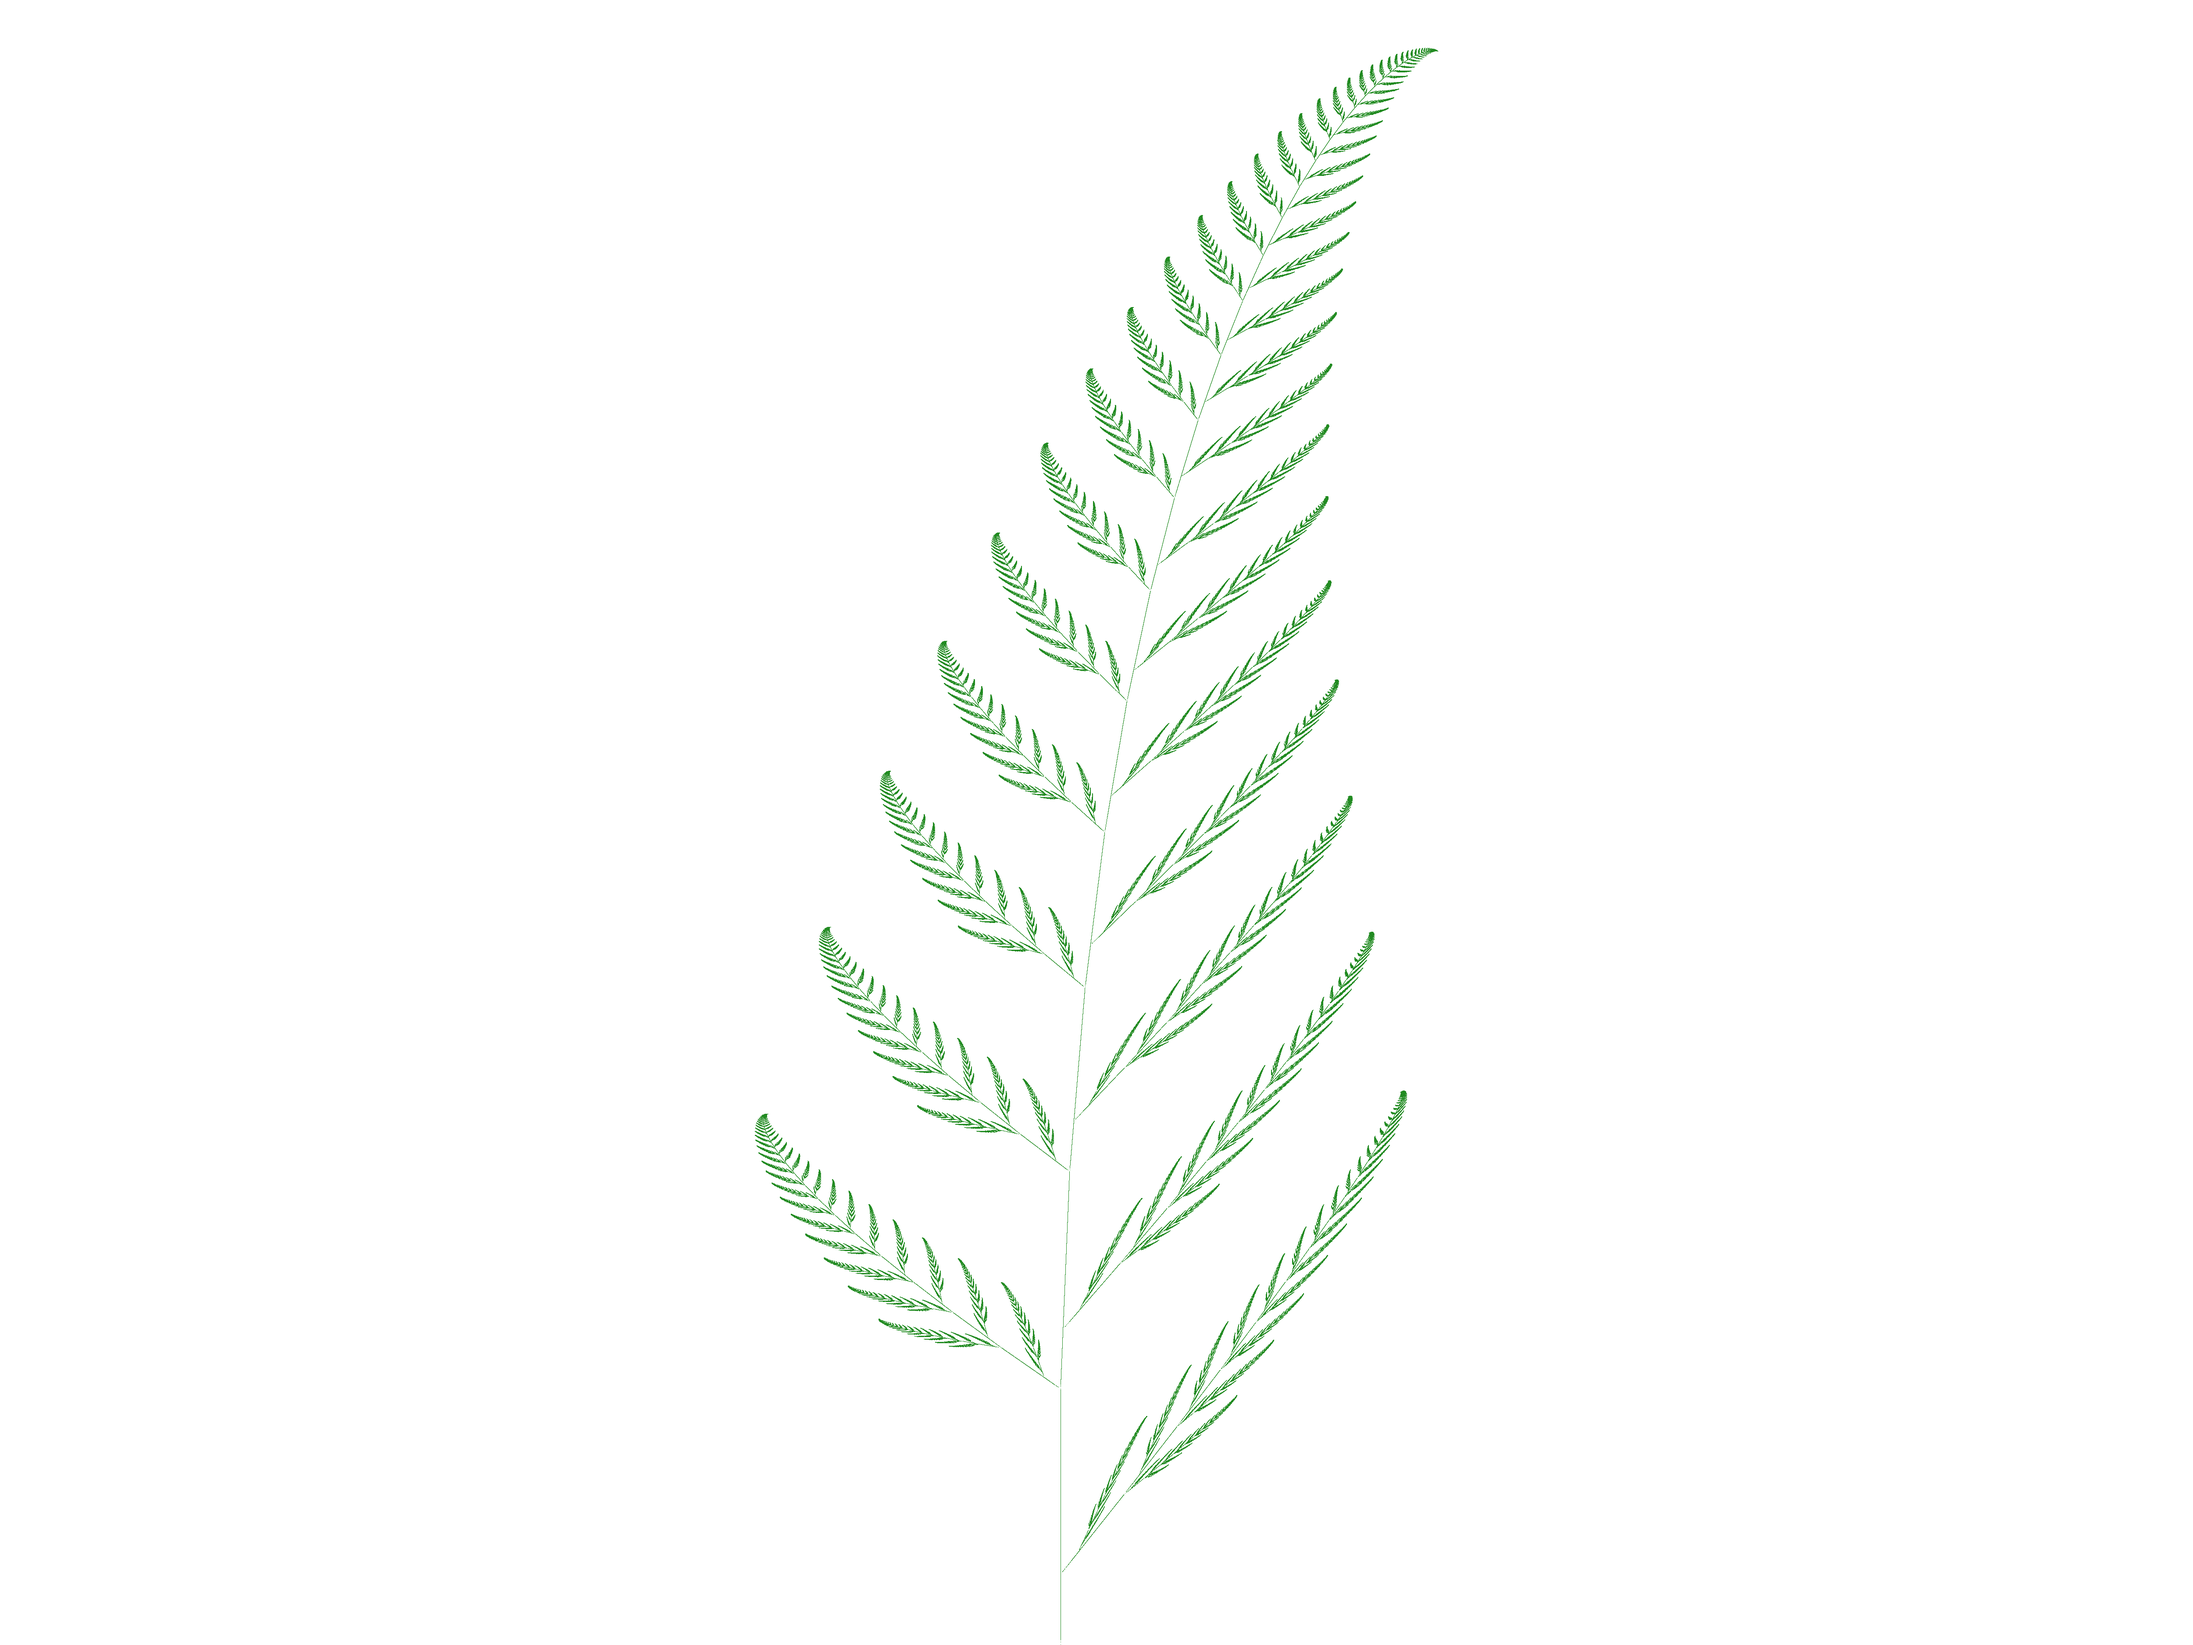
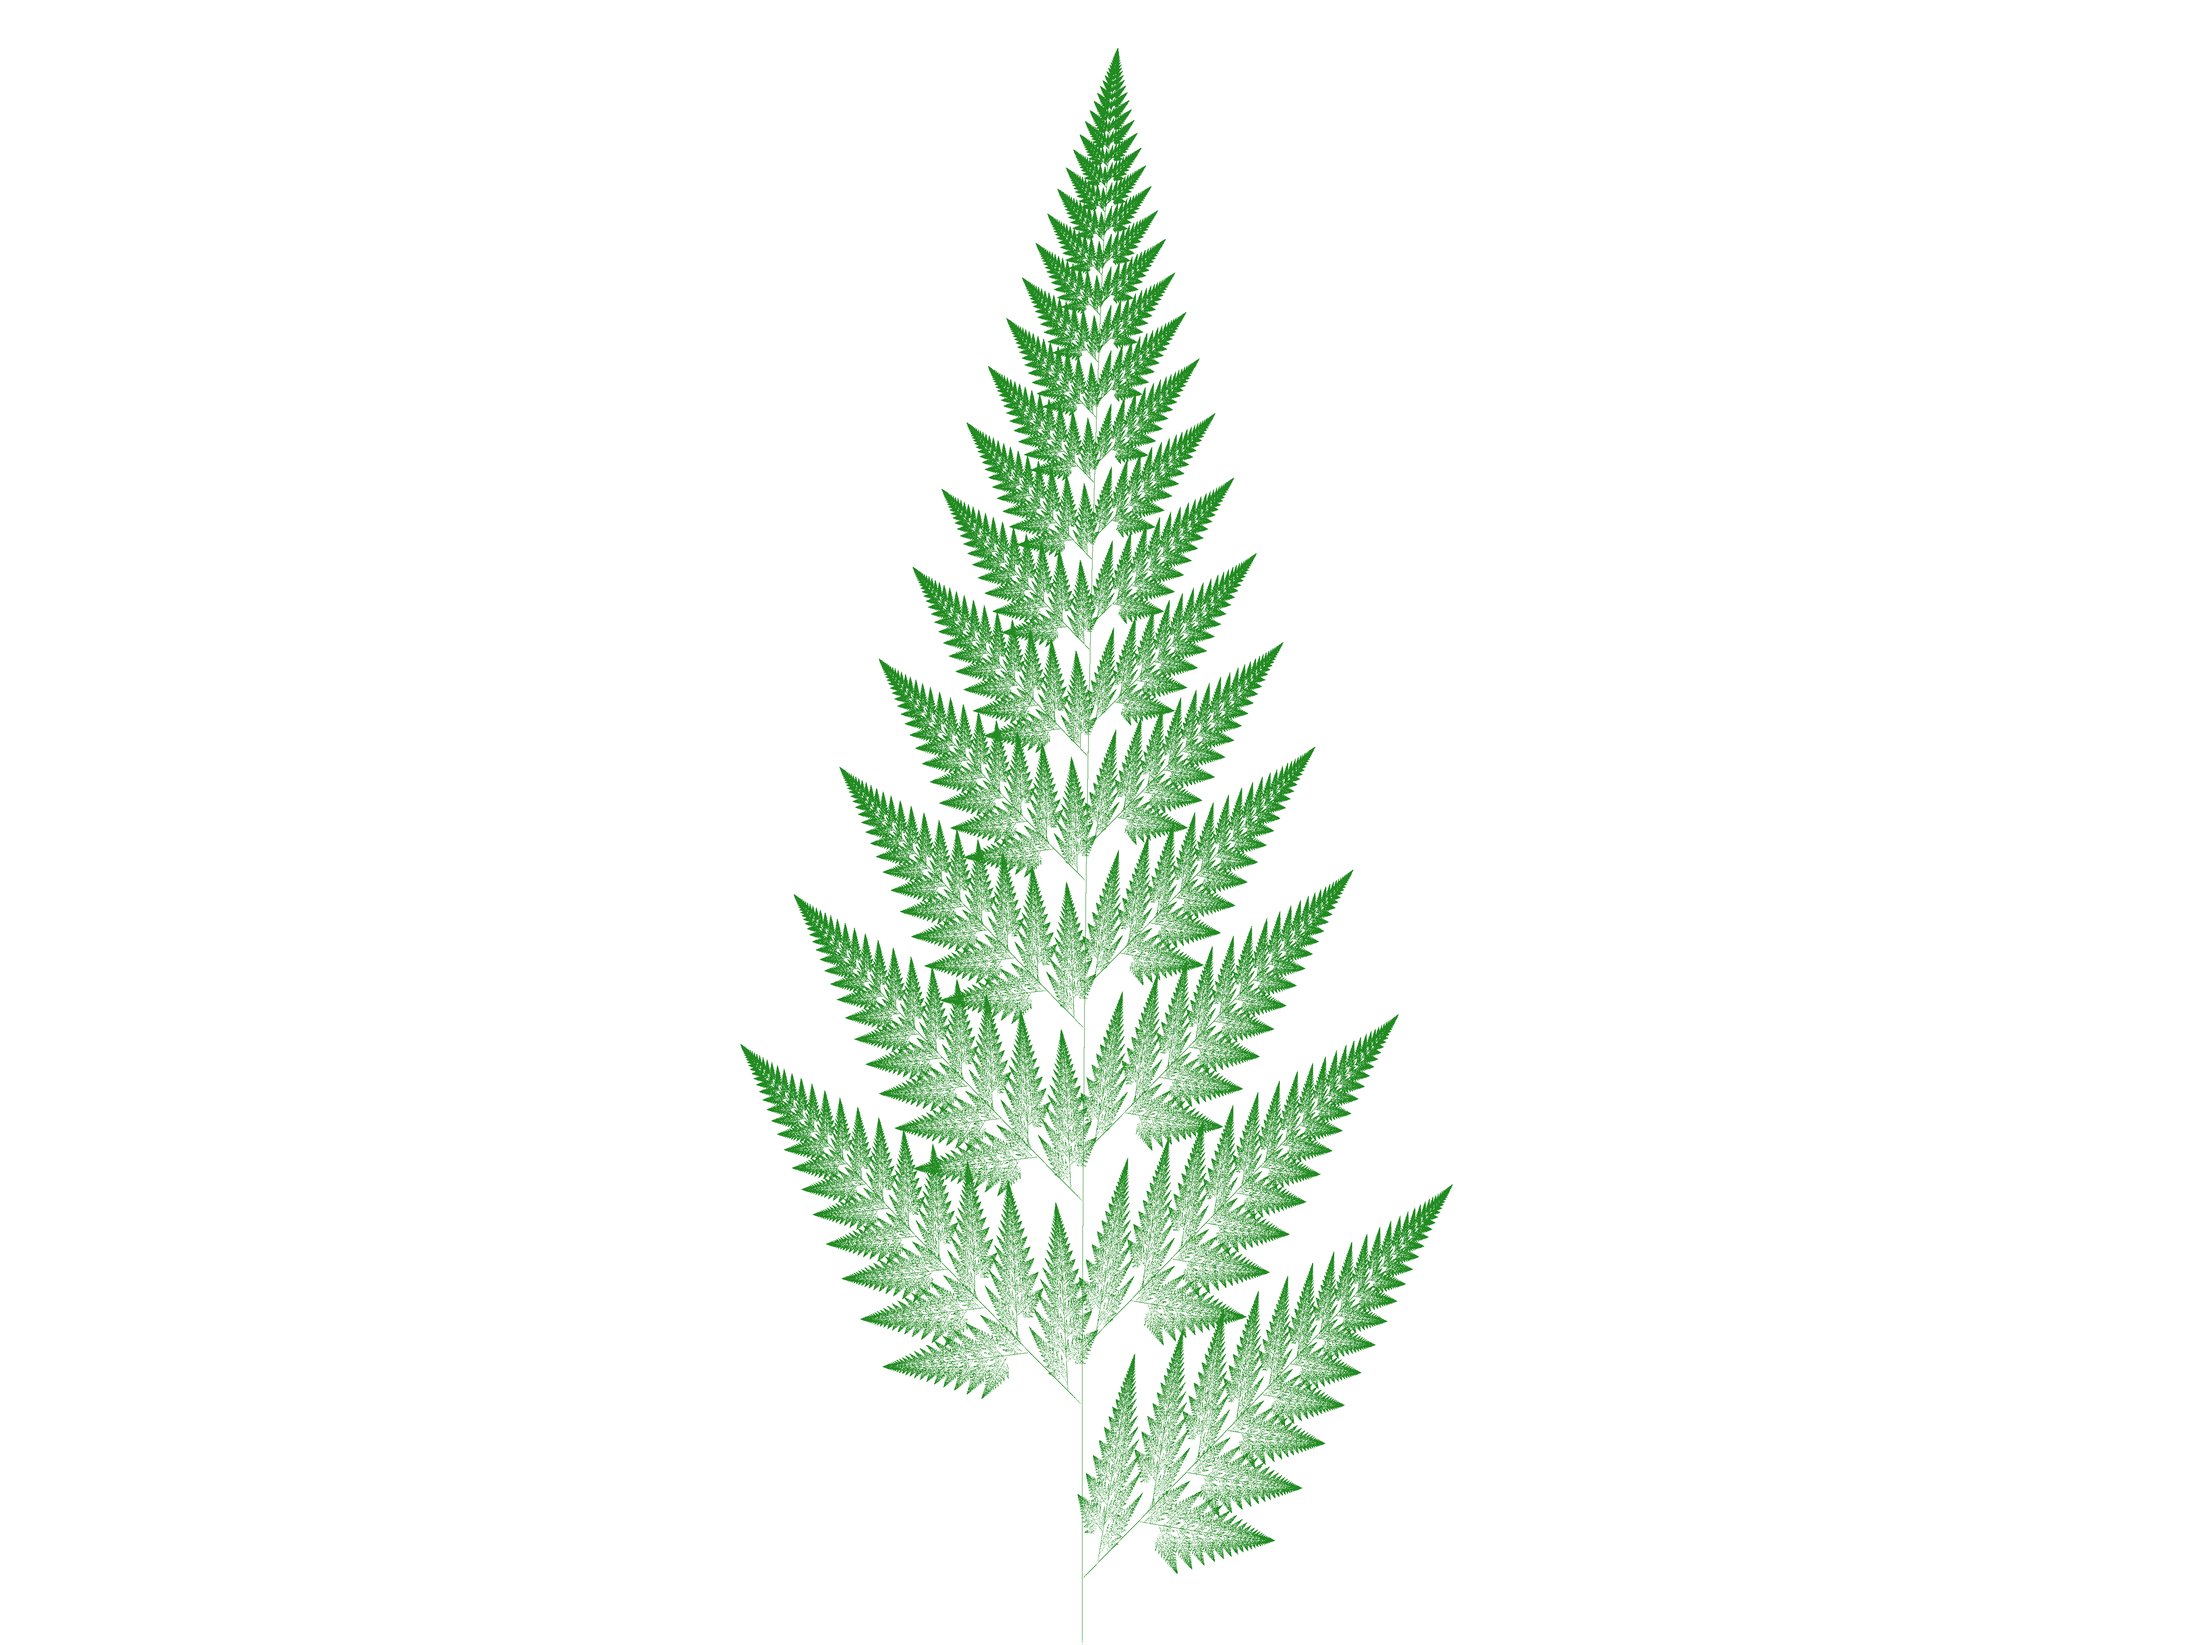
Add new variation

Changed region(s): [[0.3432, 0.0312, 0.6552, 0.9672], [0.624, 0.0312, 0.6552, 0.0624]]

diff --git a/Samambaia_Fractal_[Barnsley_fern]/Samambaia_Fractal_py/samambaia_fractal.py b/Samambaia_Fractal_[Barnsley_fern]/Samambaia_Fractal_py/samambaia_fractal.py
@@ -31,6 +31,18 @@ class SamambaiaFractal():
                 3: (0.2, -0.26, 0.23, 0.22, 0, 1.6),
                 4: (-0.15, 0.28, 0.26, 0.24, 0, 0.44),
             },
+            'modified_barnsley_JS_1': {
+                1: (0, 0, 0, 0.16, 0, 0),
+                2: (0.85, 0.04, -0.001, 0.85, 0, 1.6),
+                4: (0.2, -0.26, 0.23, 0.22, 0, 1.6),
+                3: (-0.15, 0.28, 0.26, 0.24, 0, 0.44),
+            },
+            'modified_barnsley_JS_2': {
+                1: (0, 0, 0, 0.16, 0, 0),
+                2: (0.85, 0.004, -0.001, 0.85, 0, 1.6),
+                4: (0.2, -0.26, 0.23, 0.22, 0, 1.6),
+                3: (-0.15, 0.28, 0.26, 0.24, 0, 0.44),
+            },
             'modified_barnsley': {
                 1: (0, 0, 0, 0.2, 0, -0.12),
                 2: (0.845, 0.035, -0.03, 0.82, 0, 1.6),
@@ -78,6 +90,8 @@ class SamambaiaFractal():
         }
         probability_['cyclosorus'] = probability_['culcita']
         probability_['modified_barnsley'] = probability_['barnsley']
+        probability_['modified_barnsley_JS_1'] = probability_['barnsley']
+        probability_['modified_barnsley_JS_2'] = probability_['barnsley']
 
         return matrix_[self.type], probability_[self.type]
     
@@ -109,7 +123,7 @@ class SamambaiaFractal():
         y = self.ynew
         self.xnew = a*x + b*y + e
         self.ynew = c*x + d*y + f
-        # self.ynew = c*self.xnew + d*y + f  # modified_barnsley_JS_2: Tornar as folhas finas.
+        # self.ynew = c*self.xnew + d*y + f  # modified_barnsley_JS_0: Tornar as folhas finas.
 
     def _write_values(self, mode='w') -> None:
         with open(f'fern_data_{self.type}_{self.number_of_points}.txt', mode) as f:
